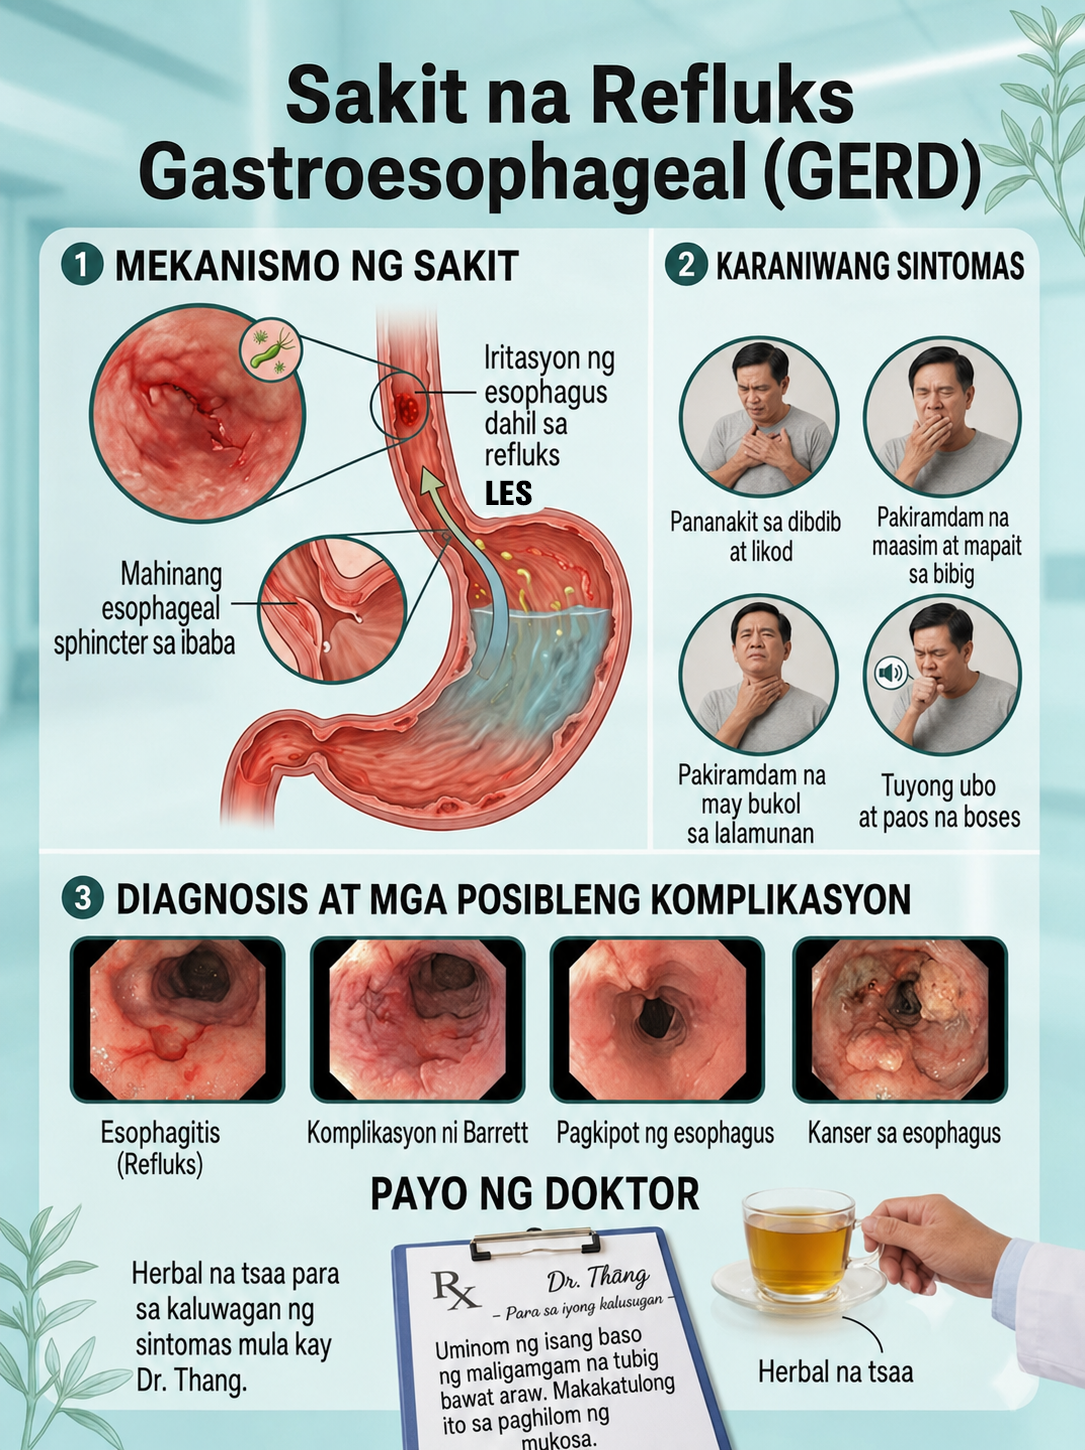
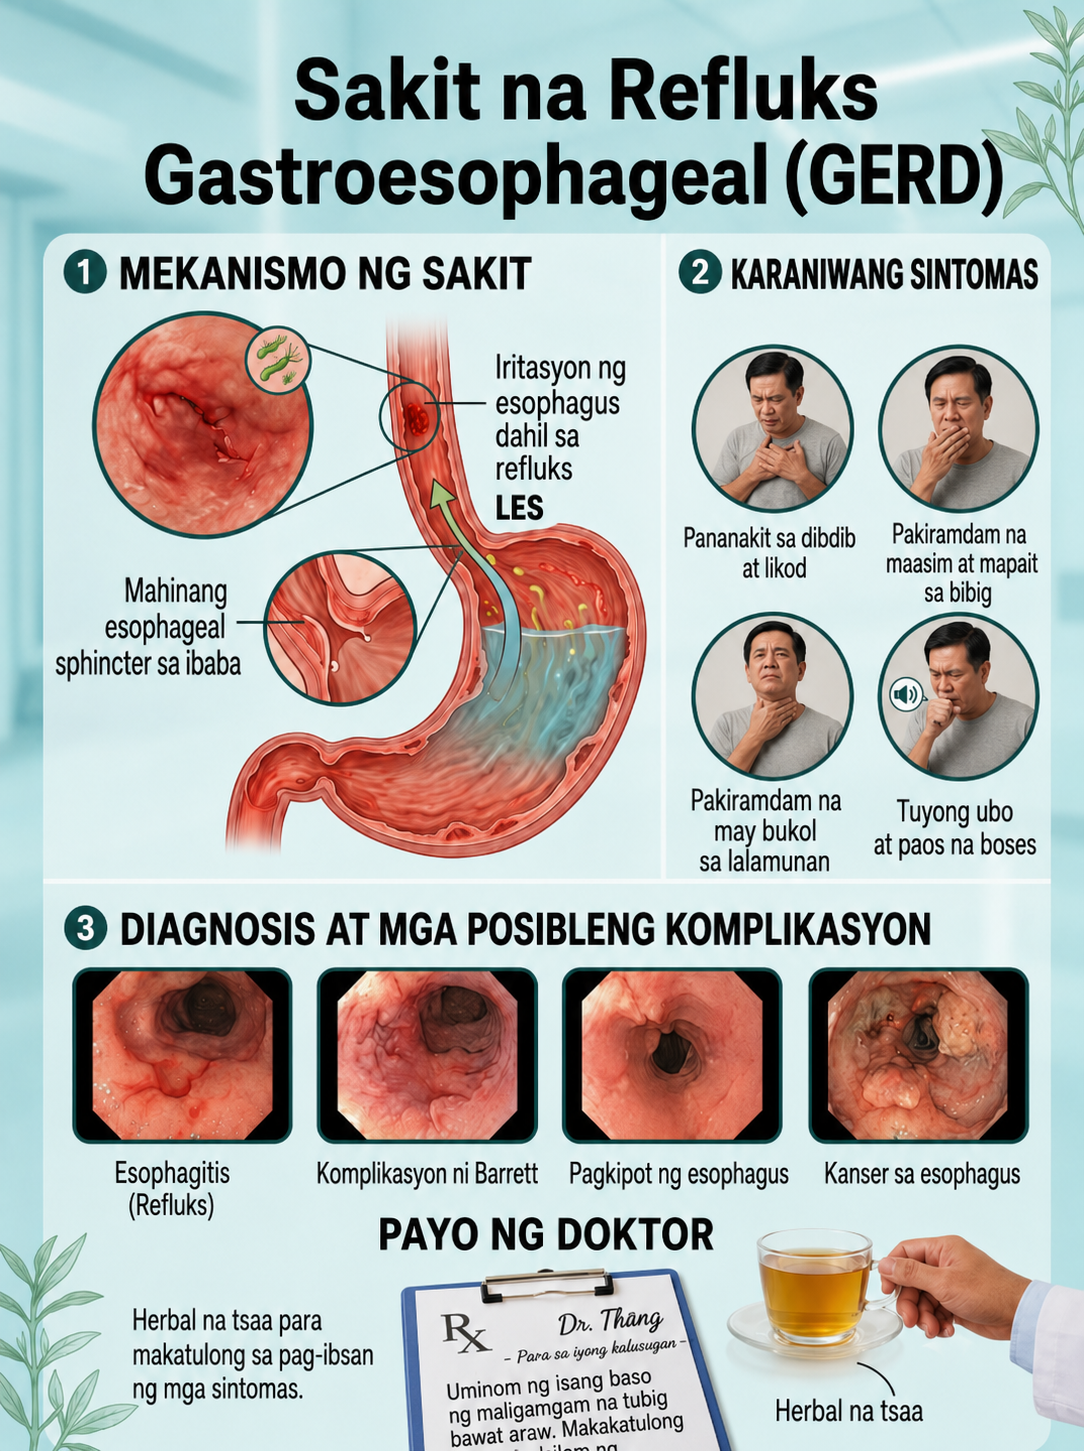
đổi gerd and text

diff --git a/src/app/tra/page.tsx b/src/app/tra/page.tsx
@@ -14,14 +14,14 @@ import { IMG } from "@/lib/sales-assets";
 
 export const metadata: Metadata = {
   title:
-    "TSAA NG HERBA LUDWIGIA PROSTRATA - Makabagong Solusyong Herbal para sa Kalusugan ng Tiyan",
+    "TSAA NG HERBA LUDWIGIA PROSTRATA - Makabagong Solusyong Herbal para sa Kalusugan ng Sikmura",
   description:
     "Tsaa ng Herba Ludwigia Prostrata — 4 na natural na halaman para sa ulser, acid reflux, at panunaw. Hanggang 50% diskwento ngayon. COD available.",
   alternates: { canonical: "/tra" },
   openGraph: {
     title: "TSAA NG HERBA LUDWIGIA PROSTRATA",
     description:
-      "Purong Halamang Gamot – Mataas ang Bisa para sa kalusugan ng tiyan.",
+      "Purong Halamang Gamot – Mataas ang Bisa para sa kalusugan ng sikmura.",
     url: "/tra",
     locale: "fil_PH",
   },
@@ -233,8 +233,8 @@ export default function TraSalesPage() {
             <CheckItem>
               <strong>Rekomendasyon:</strong> Inirerekomenda ang tuloy-tuloy na
               paggamit nang 2 hanggang 3 buwan, lalo na kung madalas kang
-              makaranas ng: hirap sa panunaw, kabag o pamamaga ng tiyan, acid
-              reflux o heartburn, init o sakit sa itaas na bahagi ng tiyan,
+              makaranas ng: hirap sa panunaw, kabag o pamamaga ng sikmura, acid
+              reflux o heartburn, init o sakit sa itaas na bahagi ng sikmura,
               discomfort pagkatapos kumain.
             </CheckItem>
             <CheckItem>
@@ -284,18 +284,18 @@ export default function TraSalesPage() {
             </CheckItem>
             <CheckItem>
               <strong className="text-[19px]">
-                Anti-Inflammatory, Anti-Bacterial at Nagpapababa ng asido sa tiyan:
+                Anti-Inflammatory, Anti-Bacterial at Nagpapababa ng asido sa sikmura:
               </strong>{" "}
               Epektibong tumutulong laban sa bakterya at nagpapababa ng asido sa
-              tiyan, kaya nababawasan ang init at sakit ng heartburn nang
+              sikmura, kaya nababawasan ang init at sakit ng heartburn nang
               mabilis.
             </CheckItem>
             <CheckItem>
               <strong className="text-[19px]">
-                Nagpapagaling sa Lining ng Tiyan (Mucosa):
+                Nagpapagaling sa Lining ng Sikmura (Mucosa):
               </strong>{" "}
               Tumutulong magpagaling at muling bumuo ng nasirang tissue ng
-              dingding ng tiyan dahil sa anti-inflammatory nitong katangian.
+              dingding ng sikmura dahil sa anti-inflammatory nitong katangian.
             </CheckItem>
             <CheckItem>
               <strong className="text-[19px]">Nagpapabuti ng Panunaw:</strong>{" "}
@@ -309,7 +309,7 @@ export default function TraSalesPage() {
         <OrderForm formId="order-1" />
 
         {/* 16. After form: medical images then absorption then intro text */}
-        <FullImage src={IMG.hpylori} alt="Mga epekto ng H. Pylori sa tiyan" />
+        <FullImage src={IMG.hpylori} alt="Mga epekto ng H. Pylori sa sikmura" />
         <FullImage src={IMG.gerd} alt="Sakit na Refluks Gastroesophageal (GERD)" />
         <FullImage
           src={IMG.ulcer}
@@ -327,12 +327,12 @@ export default function TraSalesPage() {
             tradisyunal na gamutan at modernong proseso ng produksyon.
             Idinisenyo ang teknolohiya upang kunin at panatilihin ang
             mahahalagang medicinal benefits, at idirekta ang healing essence sa
-            apektadong lining (mucosa) ng tiyan.
+            apektadong lining (mucosa) ng sikmura.
           </p>
           <p>
             Dahil sa optimized production, nananatili ang bioactive compounds
             (tulad ng Flavonoid) sa anyong madaling masipsip ng katawan. Kapag
-            nainom, mabilis itong tumagos sa lining ng tiyan, bumabalot at
+            nainom, mabilis itong tumagos sa lining ng sikmura, bumabalot at
             nagpoprotekta sa ulcer area — isang banayad na ginhawa na mahirap
             makamit sa iba pang conventional methods.
           </p>
@@ -344,7 +344,7 @@ export default function TraSalesPage() {
         <section className="space-y-5 bg-[#fff8e7] px-4 py-6 text-[18px] leading-snug text-[#111]">
           <p>
             Kapag pumasok ito sa katawan at kumilos direkta sa problemang bahagi
-            ng tiyan, nagbibigay ang nutritional system na ito ng komprehensibong
+            ng sikmura, nagbibigay ang nutritional system na ito ng komprehensibong
             epekto:
           </p>
           <p>
@@ -355,7 +355,7 @@ export default function TraSalesPage() {
             Malakas na natural na anti-inflammatory at anti-bacterial agents.
             Tumutulong ang kombinasyong ito laban sa Helicobacter Pylori (HP),
             mabilis na nagpapagaan ng sugat sa ulcer, at binabawasan ang
-            pamamaga sa mucosa ng tiyan.
+            pamamaga sa mucosa ng sikmura.
           </p>
           <p>
             🌿{" "}
@@ -363,7 +363,7 @@ export default function TraSalesPage() {
               Hedyotis capitellata & Kabute Lingzhi (Recovery Action):
             </strong>{" "}
             Agad na nagne-neutralize ang Hedyotis capitellata ng sobrang asido sa
-            tiyan, at pinapawi ang heartburn at acid reflux. Samantala,
+            sikmura, at pinapawi ang heartburn at acid reflux. Samantala,
             tumutulong ang Kabute Lingzhi sa pagpapasigla ng katawan, paglaki ng
             bagong selula, laban sa oxidative stress, at pagpapalakas ng natural
             immunity.
@@ -376,14 +376,14 @@ export default function TraSalesPage() {
           <ul className="space-y-4">
             <CheckItem>
               <strong className="text-[#c62828]">Mabilis na Ginhawa:</strong>{" "}
-              Mas magaan at mas komportable ang tiyan. Nababawasan ang kabag,
+              Mas magaan at mas komportable ang sikmura. Nababawasan ang kabag,
               pagdighay, at asim ng sikmura matapos ang ilang araw ng
               tuloy-tuloy na paggamit.
             </CheckItem>
             <CheckItem>
               <strong className="text-[#c62828]">Matagalang Proteksyon:</strong>{" "}
               Hindi lang pansamantalang ginhawa—tumutulong sa pagpapanumbalik at
-              pagpapalakas ng normal na paggana ng tiyan para sa pangmatagalang
+              pagpapalakas ng normal na paggana ng sikmura para sa pangmatagalang
               kalusugan ng panunaw.
             </CheckItem>
             <CheckItem>

diff --git a/src/app/layout.tsx b/src/app/layout.tsx
@@ -20,7 +20,7 @@ export const metadata: Metadata = {
   ),
   title: {
     default:
-      "TSAA NG HERBA LUDWIGIA PROSTRATA - Makabagong Solusyong Herbal para sa Kalusugan ng Tiyan",
+      "TSAA NG HERBA LUDWIGIA PROSTRATA - Makabagong Solusyong Herbal para sa Kalusugan ng Sikmura",
     template: "%s | HerbalCare",
   },
   description:
